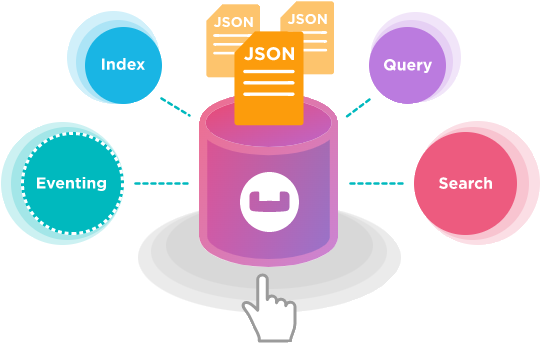
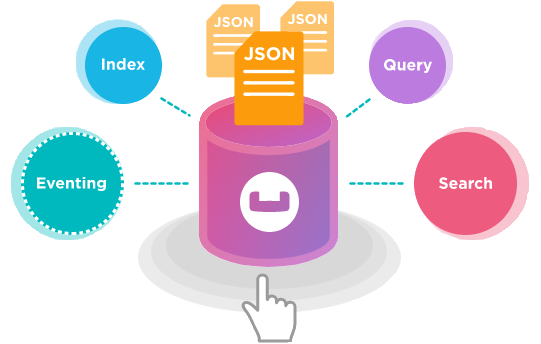
new images couchbase

diff --git a/index.html b/index.html
@@ -146,7 +146,7 @@
 						                    </section>
                 </li>
 				                <li>
-										<img src="wp-content/uploads/Teste/Couchbaseresized2.PNG" alt="Home" />
+										<img src="wp-content/uploads/Teste/couch.png" alt="Home" />
 					                    <section class="slider_content">
                     	<h1>Couchbase</h1>
                         <div class="clear"></div>

diff --git a/wp-content/themes/ght/style4e7f.css b/wp-content/themes/ght/style4e7f.css
@@ -845,7 +845,8 @@ section.slider_content{
 	//background:#6981a8;
 	//background:#3f4d64;
 	/background:#344054;
-	background:#344054;
+	//background:#424f64;
+	background:#49536c;
 	border: 4px outset #999;
 	box-shadow: 0px 5px 5px grey;
 	border-radius:5px;
